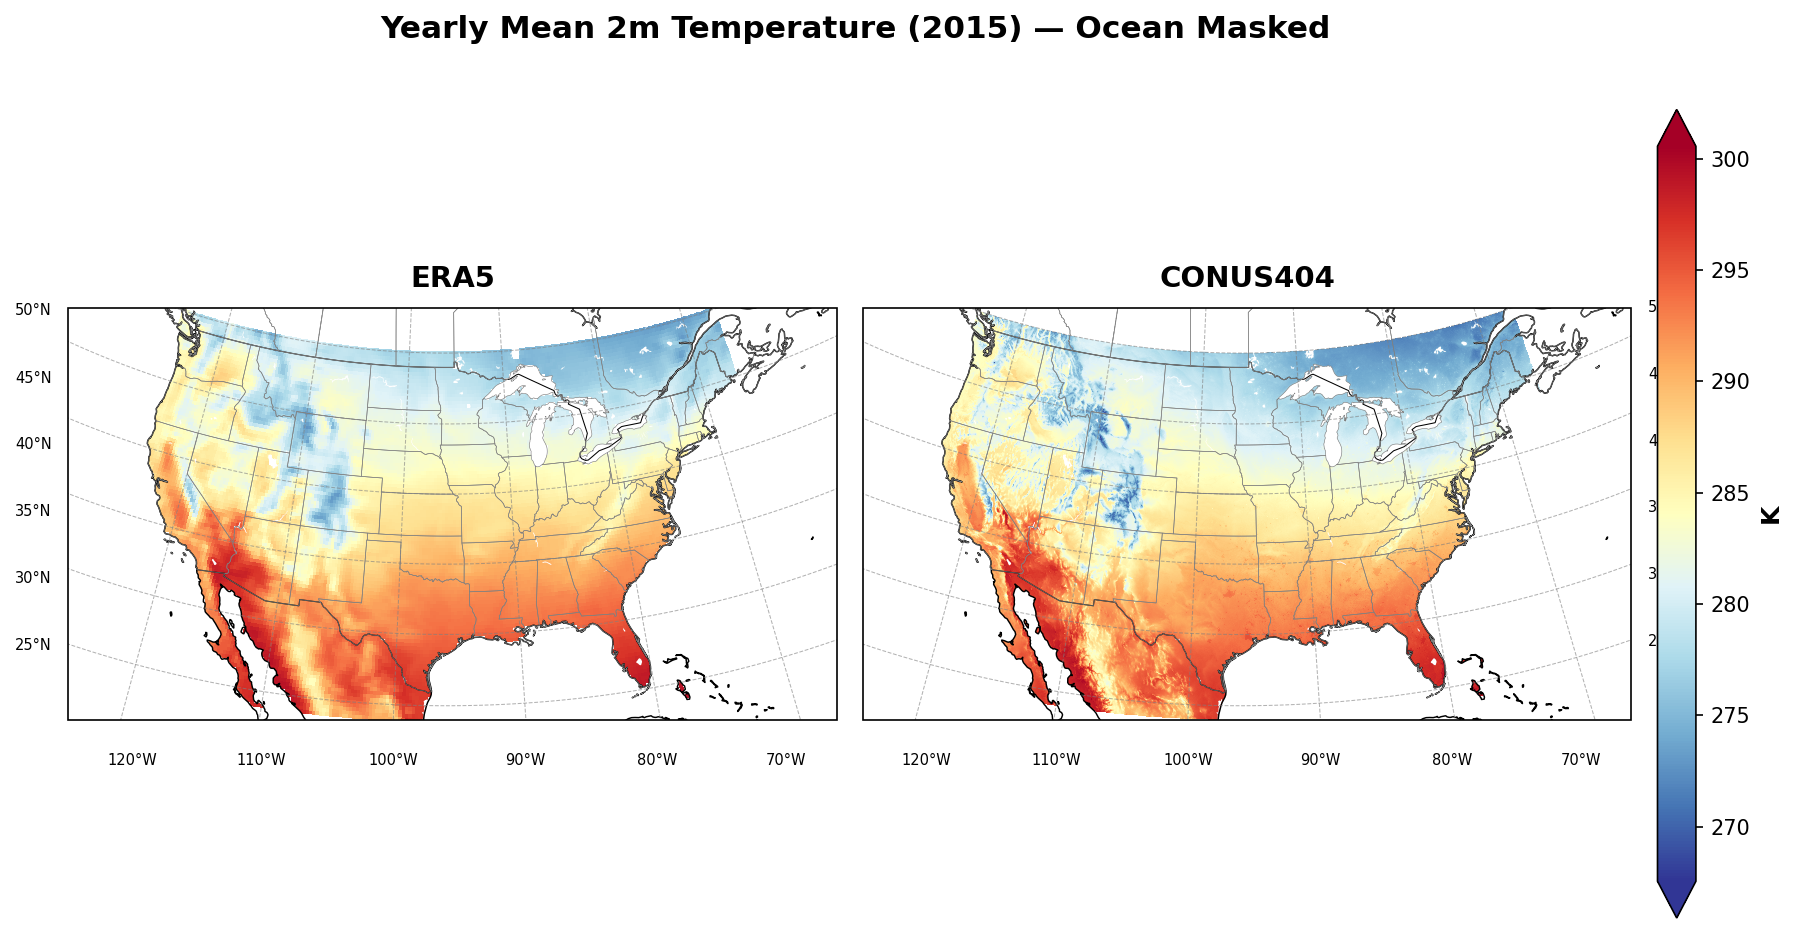
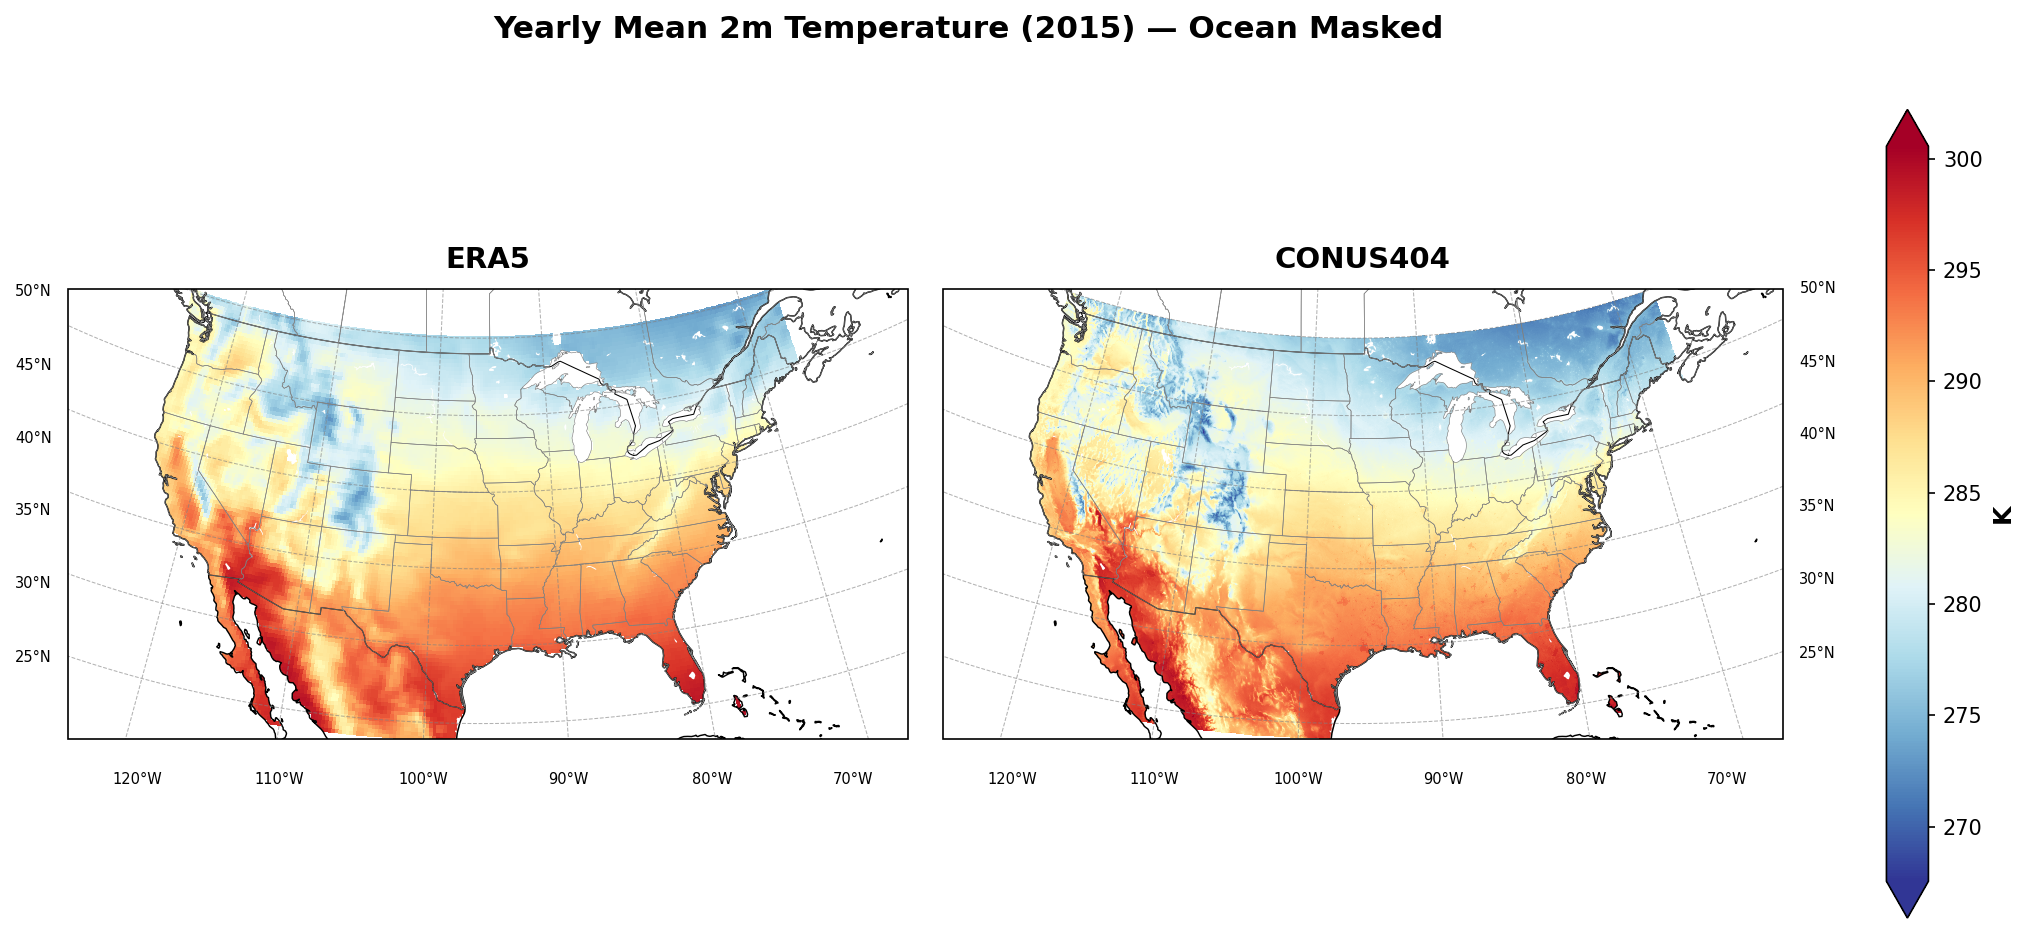
Widen figure and add gap column to clear colorbar from lat labels

diff --git a/gen_t2m_plot.py b/gen_t2m_plot.py
@@ -117,8 +117,8 @@ vmin = min(np.nanmin(era_arr), np.nanmin(conus_arr))
 vmax = max(np.nanmax(era_arr), np.nanmax(conus_arr))
 
 # ── plot ─────────────────────────────────────────────────────────────────────
-fig = plt.figure(figsize=(14, 7))
-gs  = gridspec.GridSpec(1, 3, width_ratios=[1, 1, 0.05], wspace=0.05)
+fig = plt.figure(figsize=(16, 7))
+gs  = gridspec.GridSpec(1, 4, width_ratios=[1, 1, 0.04, 0.05], wspace=0.08)
 
 ax1 = fig.add_subplot(gs[0], projection=proj)
 im1 = ax1.pcolormesh(lon_e, lat_e, era_arr, transform=ccrs.PlateCarree(),
@@ -132,7 +132,7 @@ im2 = ax2.pcolormesh(lon2d, lat2d, conus_arr, transform=ccrs.PlateCarree(),
 add_map_features(ax2, lat_side='right')
 ax2.set_title('CONUS404', fontsize=14, fontweight='bold', pad=10)
 
-cax = fig.add_subplot(gs[2])
+cax = fig.add_subplot(gs[3])
 fig.colorbar(im2, cax=cax, extend='both').set_label('K', fontsize=12, fontweight='bold')
 
 fig.suptitle(f'Yearly Mean 2m Temperature ({YEAR}) — Ocean Masked',
